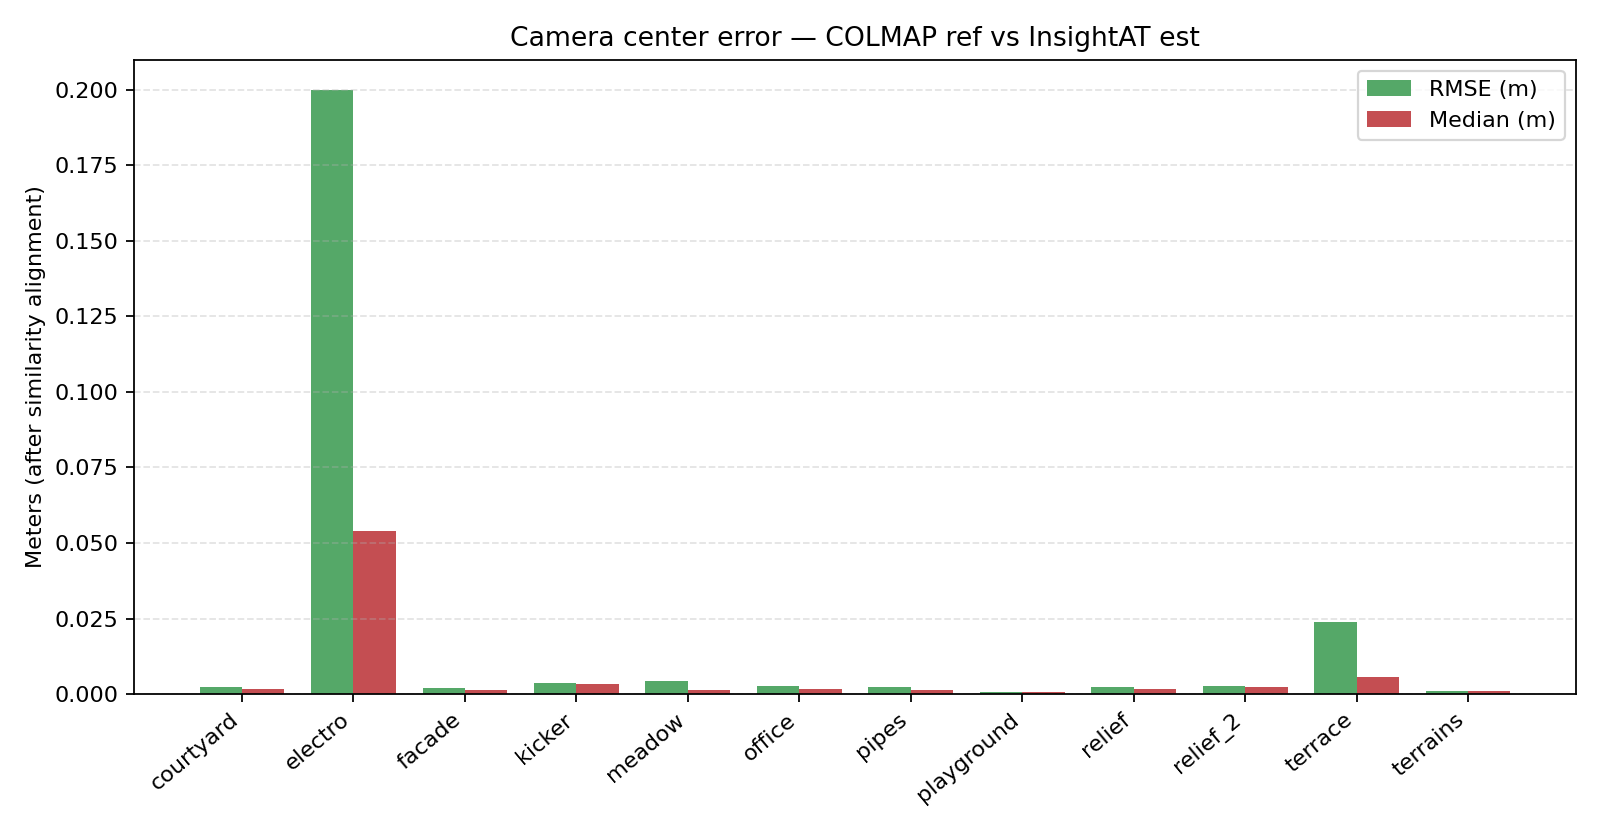
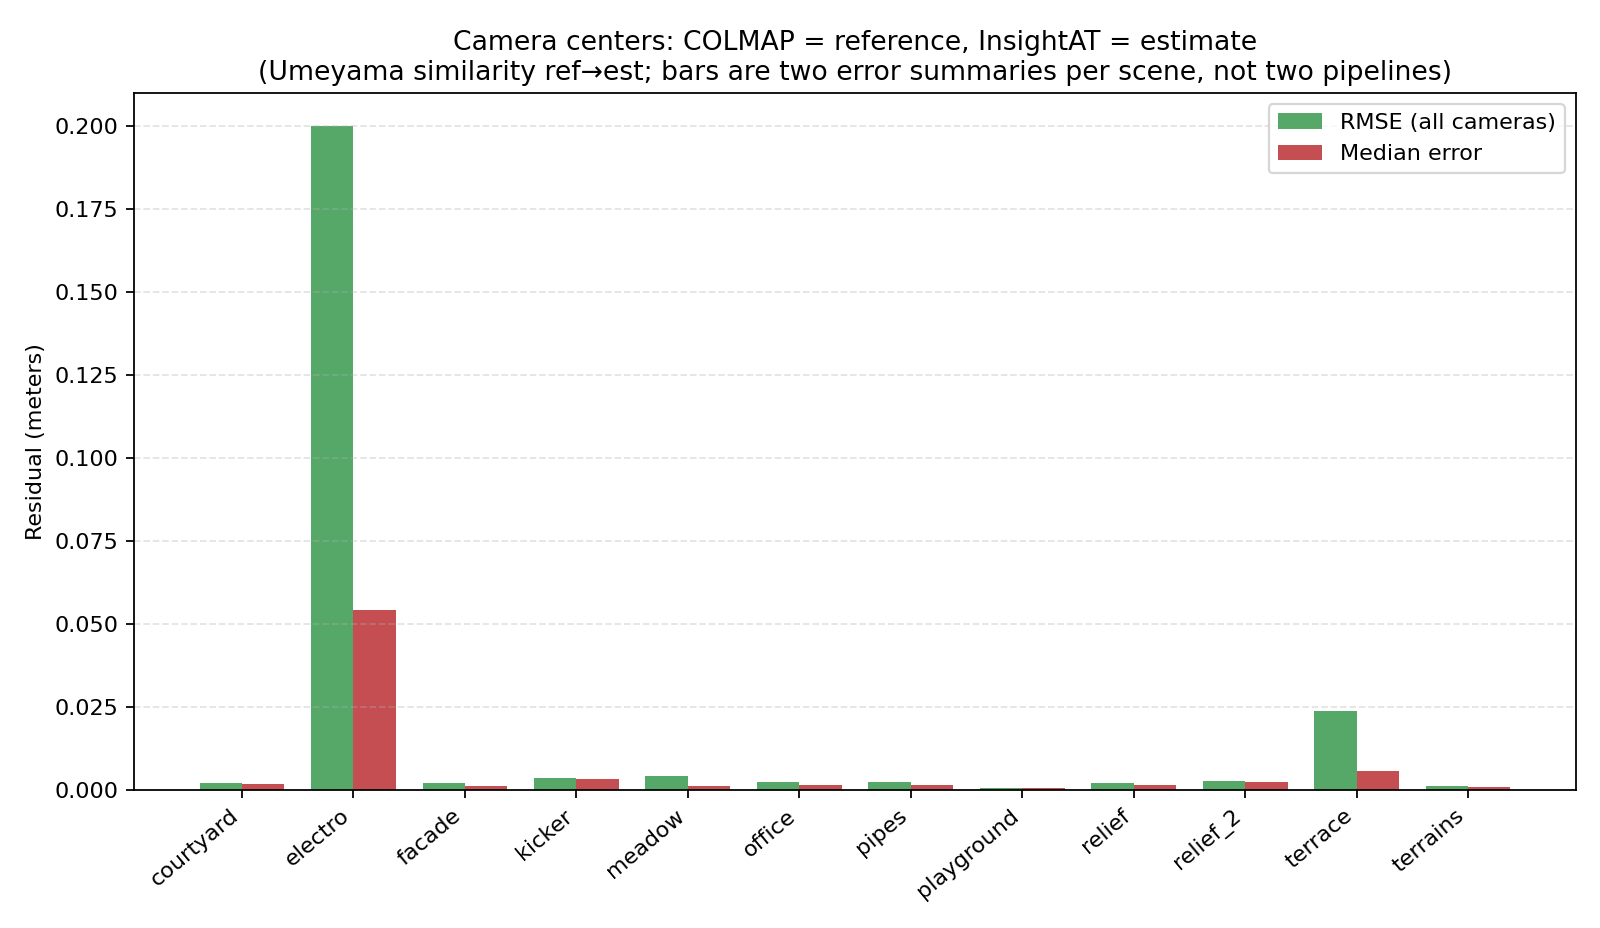
docs: clarify alignment benchmark chart (ref vs est, RMSE vs median)
Made-with: Cursor

diff --git a/benchmarks/sfm_compare/plot_eth3d_benchmark.py b/benchmarks/sfm_compare/plot_eth3d_benchmark.py
@@ -155,14 +155,17 @@ def main() -> int:
         med = [float(r["median_m"]) for r in compare_rows]
         x = np.arange(len(scenes_c))
         w = 0.38
-        fig, ax = plt.subplots(figsize=(max(10.0, len(scenes_c) * 0.55), 5.2))
-        ax.bar(x - w / 2, rmse, width=w, label="RMSE (m)", color="#55A868")
-        ax.bar(x + w / 2, med, width=w, label="Median (m)", color="#C44E52")
-        ax.set_ylabel("Meters (after similarity alignment)")
-        ax.set_title("Camera center error — COLMAP ref vs InsightAT est")
+        fig, ax = plt.subplots(figsize=(max(10.0, len(scenes_c) * 0.55), 5.8))
+        ax.bar(x - w / 2, rmse, width=w, label="RMSE (all cameras)", color="#55A868")
+        ax.bar(x + w / 2, med, width=w, label="Median error", color="#C44E52")
+        ax.set_ylabel("Residual (meters)")
+        ax.set_title(
+            "Camera centers: COLMAP = reference, InsightAT = estimate\n"
+            "(Umeyama similarity ref→est; bars are two error summaries per scene, not two pipelines)"
+        )
         ax.set_xticks(x)
         ax.set_xticklabels(scenes_c, rotation=40, ha="right")
-        ax.legend()
+        ax.legend(loc="upper right")
         ax.grid(axis="y", linestyle="--", alpha=0.35)
         fig.tight_layout()
         fig.savefig(out_dir / "eth3d_camera_center_alignment.png", dpi=160)

diff --git a/README.md b/README.md
@@ -194,6 +194,8 @@ This is **not** the official ETH3D leaderboard metric; it is an internal A/B for
 
 ![Camera center alignment RMSE / median](doc/images/benchmarks/eth3d_camera_center_alignment.png)
 
+**How to read the third figure:** it is **not** “green = COLMAP, red = InsightAT”. Both bars describe **one** comparison per scene: **COLMAP sparse model = reference**, **InsightAT = estimate**. A similarity transform aligns COLMAP camera centers to InsightAT’s; **green = RMSE** and **red = median** of the remaining center residuals (meters)—two statistics of the same geometric agreement.
+
 ### How to reproduce
 
 1. Prepare dataset layout: `python3 benchmarks/eth3d/prepare_datasets.py -d /path/to/eth3d_root` (see [benchmarks/README.md](benchmarks/README.md)).

diff --git a/benchmarks/README.md b/benchmarks/README.md
@@ -145,6 +145,7 @@ python3 benchmarks/sfm_compare/compare_colmap_sparse.py \
 - **匹配**：按 `images.txt` 中图像 **文件名（basename）** 对齐；仅统计两模型均存在的图像。
 - **对齐**：将 **参考侧（ref）** 相机中心经相似变换对齐到 **估计侧（est）**，报告 RMSE、中位数误差、最大误差及尺度因子。
 - **解释**：这是典型的「两重建互比」；**不是** ETH3D 官方真值评测。若需与 `gt/` 对比，需另行实现真值格式读取与对齐。
+- **参考 / 估计**：脚本中 **ref = COLMAP**、`est = InsightAT`（路径见 `compare_dataset_batch.py`）。对齐图里 **RMSE 与中位数** 是同一对齐下的两种误差统计，**不是**两根柱各代表一个软件。
 
 ## 辅助脚本（仓库其它位置）
 